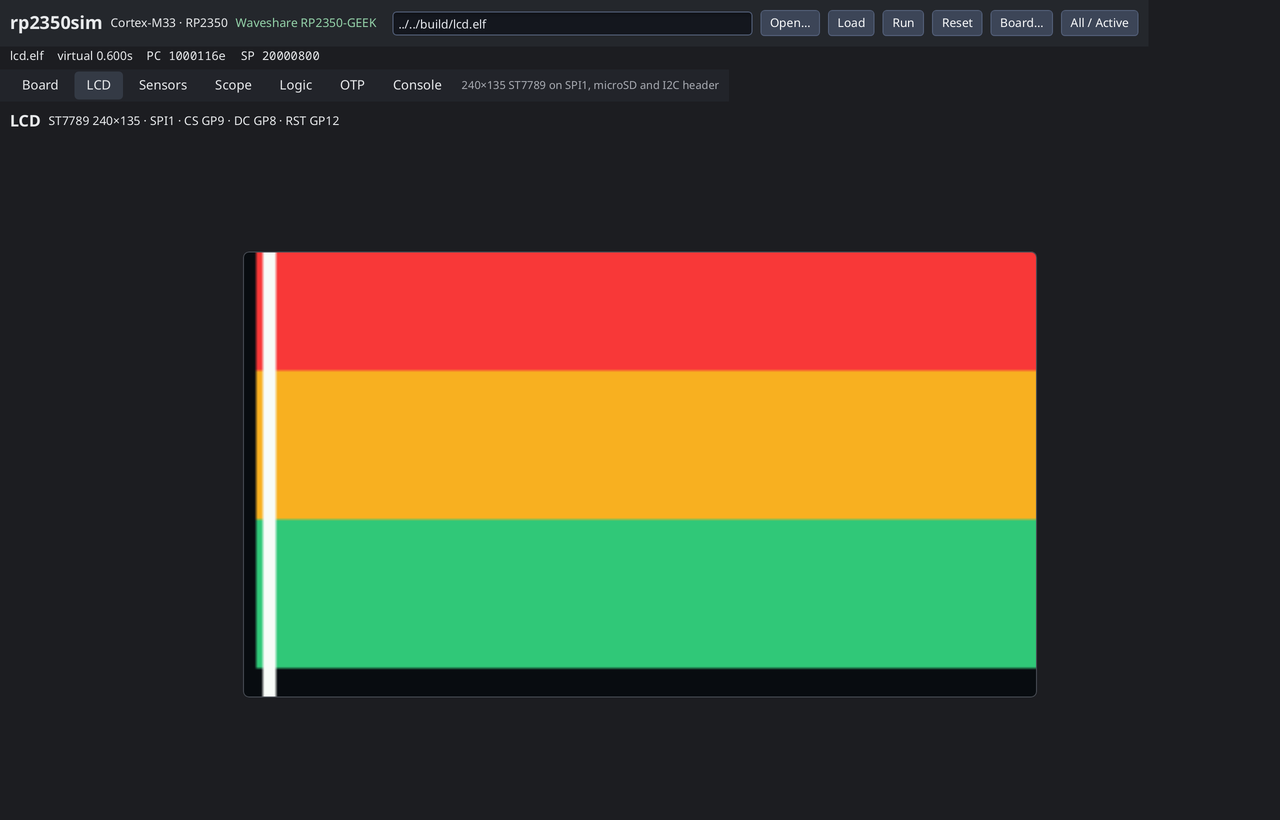
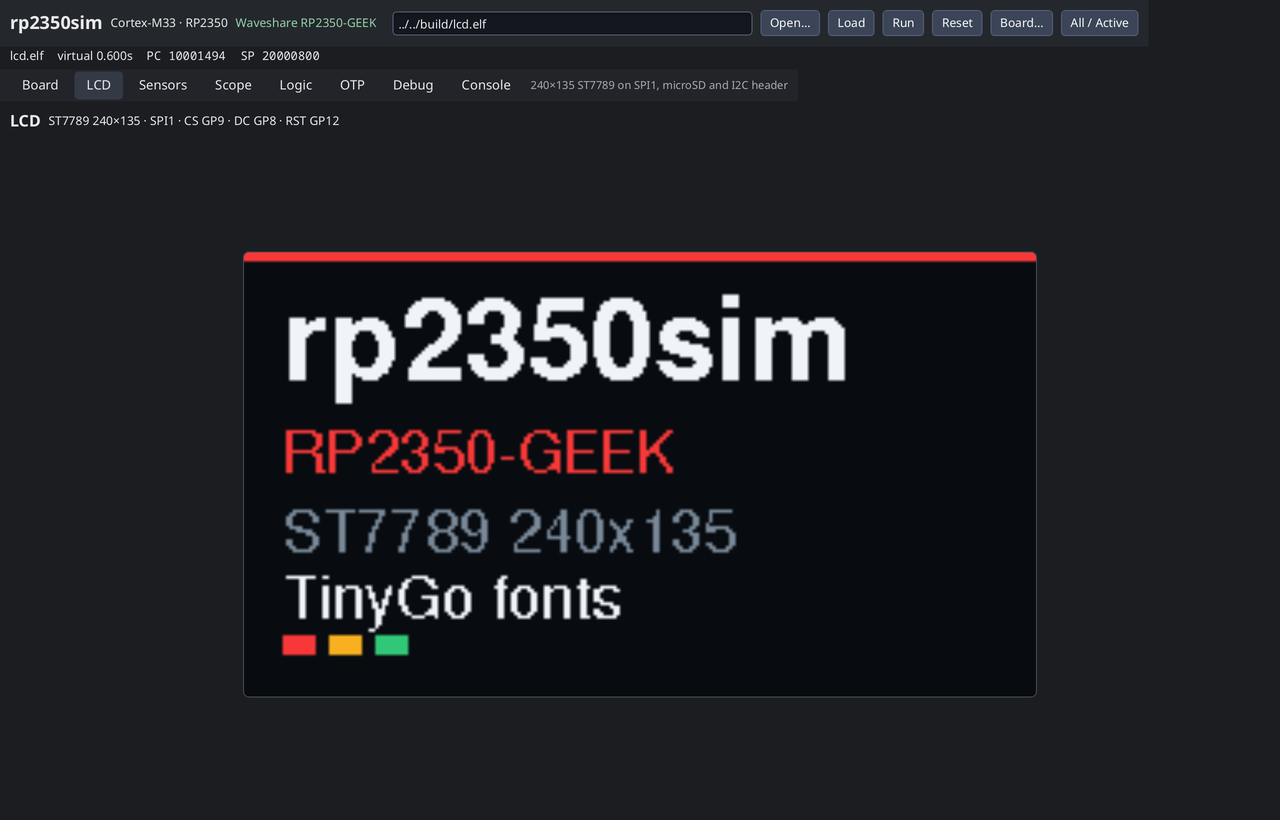
lcd: render the example with TinyGo fonts
Replace the palette-band animation with a freesans splash: title, board,
panel and font labels, plus cycling accent bars. This exercises text
rendering through tinyfont while keeping full-frame fills and rotation.

Retake the UI documentation screenshot.

diff --git a/firmware/lcd/main.go b/firmware/lcd/main.go
@@ -1,6 +1,6 @@
-// Drive the RP2350-GEEK's ST7789 panel. The animation exercises full-frame
-// fills and partial updates: three palette bands slide, a white cursor sweeps
-// across the panel, and a progress bar grows along the top edge.
+// Drive the RP2350-GEEK's ST7789 panel with a TinyGo font splash. The title
+// color and the accent bars cycle through the palette, so full-frame fills,
+// text rendering and partial updates are all exercised.
 // Build with `task lcd`, which also exports a PNG of the framebuffer.
 package main
 
@@ -11,24 +11,19 @@ import (
 
 	"tinygo.org/x/drivers"
 	"tinygo.org/x/drivers/st7789"
+	"tinygo.org/x/tinyfont"
+	"tinygo.org/x/tinyfont/freesans"
 )
-
-var palettes = [][3]color.RGBA{
-	{
-		{R: 255, G: 56, B: 56, A: 255},
-		{R: 255, G: 176, B: 32, A: 255},
-		{R: 48, G: 200, B: 120, A: 255},
-	},
-	{
-		{R: 64, G: 132, B: 255, A: 255},
-		{R: 168, G: 96, B: 255, A: 255},
-		{R: 64, G: 232, B: 232, A: 255},
-	},
-}
 
 var (
 	background = color.RGBA{R: 12, G: 14, B: 20, A: 255}
-	white      = color.RGBA{R: 255, G: 255, B: 255, A: 255}
+	white      = color.RGBA{R: 240, G: 244, B: 248, A: 255}
+	muted      = color.RGBA{R: 126, G: 138, B: 154, A: 255}
+	accent     = [3]color.RGBA{
+		{R: 255, G: 56, B: 56, A: 255},
+		{R: 255, G: 176, B: 32, A: 255},
+		{R: 48, G: 200, B: 120, A: 255},
+	}
 )
 
 func main() {
@@ -41,48 +36,25 @@ func main() {
 
 	uart.Write([]byte("lcd example running\r\n"))
 
-	const (
-		width  = 240
-		height = 135
-		band   = 45
-	)
-
 	var frame int
 	for {
-		p := palettes[(frame/150)%len(palettes)]
+		p := accent[(frame/90)%len(accent)]
 
-		_ = display.FillRectangle(0, 0, width, height, background)
+		_ = display.FillRectangle(0, 0, 240, 135, background)
 
-		// Bands bounce up and down so no wrap seam is visible.
-		phase := frame % 90
-		if phase > 45 {
-			phase = 90 - phase
-		}
-		for i, c := range p {
-			y0 := int16(-15 + i*band + phase)
-			y1 := y0 + band
-			if y0 < 0 {
-				y0 = 0
-			}
-			if y1 > height {
-				y1 = height
-			}
-			if y1 > y0 {
-				_ = display.FillRectangle(0, y0, width, y1-y0, c)
-			}
+		// A thin accent line and three palette swatches keep the animation
+		// visible without hiding the text.
+		_ = display.FillRectangle(0, 0, 240, 3, p)
+		for i, c := range accent {
+			_ = display.FillRectangle(int16(12+i*14), 116, 10, 6, c)
 		}
 
-		// Sweep a cursor across the panel, erasing the previous column.
-		x := int16(frame % (width - 4))
-		_ = display.FillRectangle(x, 0, 4, height, white)
-		_ = display.FillRectangle((x+width-6)%width, 0, 4, height, background)
-
-		// Progress bar along the top edge, redrawn every 30 frames.
-		if frame%30 == 0 {
-			_ = display.FillRectangle(4, 4, int16(4+frame%232), 3, white)
-		}
+		tinyfont.WriteLine(&display, &freesans.Bold18pt7b, 12, 38, "rp2350sim", white)
+		tinyfont.WriteLine(&display, &freesans.Regular9pt7b, 12, 66, "RP2350-GEEK", p)
+		tinyfont.WriteLine(&display, &freesans.Regular9pt7b, 12, 90, "ST7789 240x135", muted)
+		tinyfont.WriteLine(&display, &freesans.Regular9pt7b, 12, 110, "TinyGo fonts", white)
 
 		frame++
-		time.Sleep(40 * time.Millisecond)
+		time.Sleep(50 * time.Millisecond)
 	}
 }

diff --git a/docs/boards.md b/docs/boards.md
@@ -43,9 +43,10 @@ clocks/PLL/XOSC, watchdog, UART0/1, SPI0/1, I2C0/1, PWM, ADC, DMA, USB device
   target board, not on-board devices.
 - Use `-lcd` (runner) or the `geek` UI board; `-lcd-png out.png` exports the
   framebuffer.
-- Reference firmware: `firmware/lcd`, which animates palette bands and a
-  sweeping cursor so full-frame fills, partial updates and rotation are all
-  exercised.
+- Reference firmware: `firmware/lcd`, a font splash using
+  `tinygo.org/x/tinyfont` and `freesans`. The title color and accent bars
+  cycle through the palette, exercising full-frame fills, text rendering,
+  partial updates and rotation.
 
 ## Waveshare RP2350-Touch-LCD-2
 
